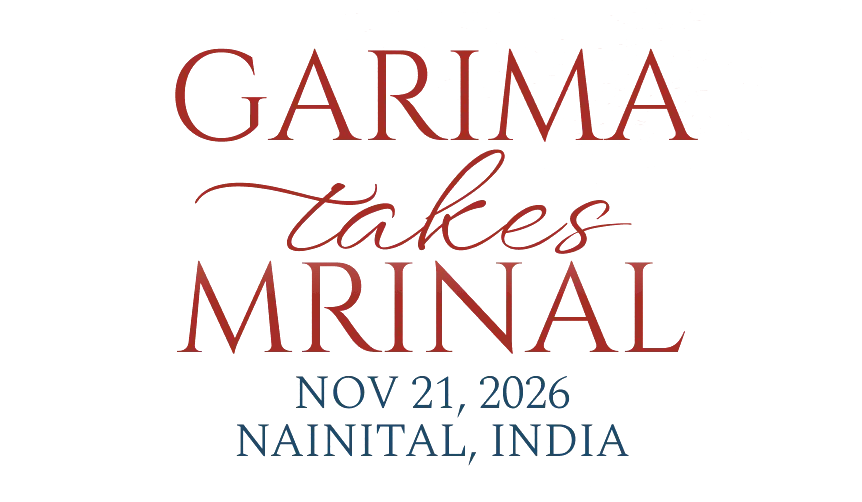
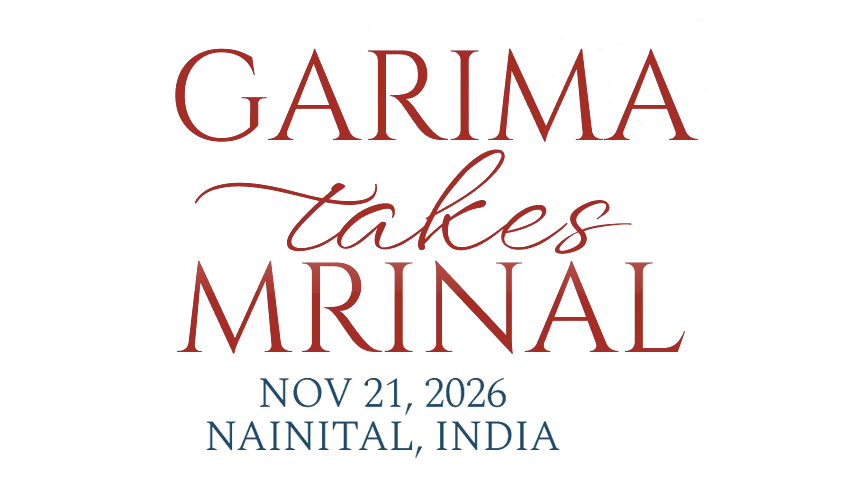
Reduce Date and Location text block size by 10% and adjust vertical gap

Changed region(s): [[0.2413, 0.747, 0.7239, 0.9263]]

diff --git a/index.html b/index.html
@@ -17,13 +17,13 @@
 <meta name="apple-mobile-web-app-title" content="GTM 2026">
 <title>Garima weds Mrinal · Nainital 2026</title>
 <meta name="description" content="Garima weds Mrinal · A wedding in the Kumaon hills · 20–22 November 2026 · Nainital, Uttarakhand">
-<link rel="icon" type="image/png" sizes="32x32" href="images/favicon-32x32.png?v=3700">
-<link rel="icon" type="image/png" sizes="64x64" href="images/favicon-64x64.png?v=3700">
-<link rel="icon" type="image/x-icon" href="favicon.ico?v=3700">
+<link rel="icon" type="image/png" sizes="32x32" href="images/favicon-32x32.png?v=3800">
+<link rel="icon" type="image/png" sizes="64x64" href="images/favicon-64x64.png?v=3800">
+<link rel="icon" type="image/x-icon" href="favicon.ico?v=3800">
 <link rel="preconnect" href="https://fonts.googleapis.com">
 <link rel="preconnect" href="https://fonts.gstatic.com" crossorigin>
 <link href="https://fonts.googleapis.com/css2?family=Cinzel:wght@400;500;600;700&family=Cormorant+Garamond:ital,wght@0,300;0,400;0,500;0,600;0,700;1,400;1,500&family=Spectral:wght@200;300;400;500;600;700&family=WindSong&display=swap" rel="stylesheet">
-<link rel="stylesheet" href="css/site.css?v=3700">
+<link rel="stylesheet" href="css/site.css?v=3800">
 <style>
 @font-face {
   font-family: 'WindSong';
@@ -570,7 +570,7 @@ html, body {
           <!-- ── 3. Central Typography Centerpiece (Pixel-by-Pixel Master Design Lockup) ── -->
   <div class="home-hero-text">
     <div class="home-centerpiece-wrap">
-      <img src="images/home_centerpiece.png?v=3700" alt="GARIMA takes MRINAL · NOV 21, 2026 · NAINITAL, INDIA" class="home-centerpiece-img">
+      <img src="images/home_centerpiece.png?v=3800" alt="GARIMA takes MRINAL · NOV 21, 2026 · NAINITAL, INDIA" class="home-centerpiece-img">
     </div>
   </div>
 
@@ -905,7 +905,7 @@ document.addEventListener('DOMContentLoaded', function() {
   }
 });
 </script>
-<script src="js/spa-nav.js?v=3700"></script>
-<script src="js/global-audio.js?v=3700"></script>
+<script src="js/spa-nav.js?v=3800"></script>
+<script src="js/global-audio.js?v=3800"></script>
 </body>
 </html>
